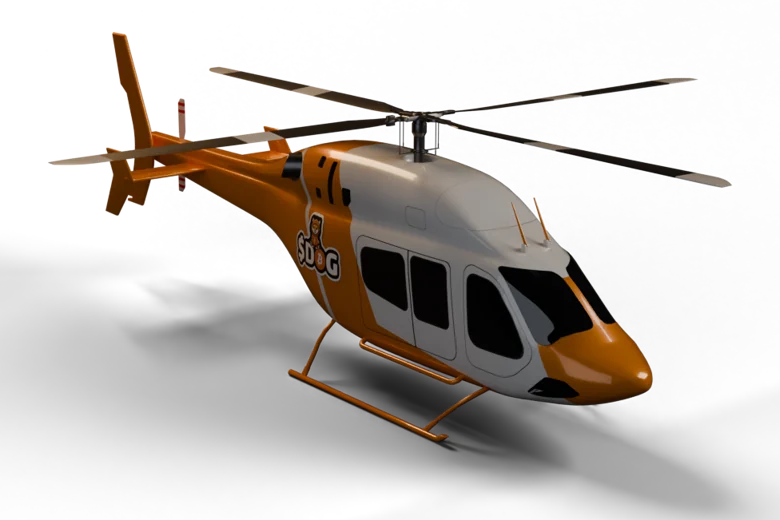
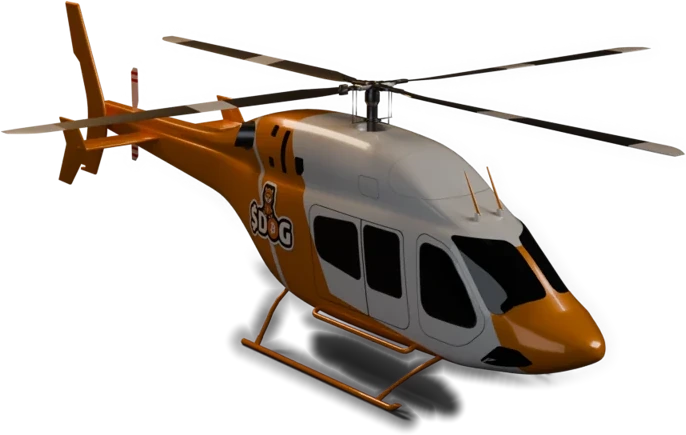
Licenças: sombra dos veículos sem retângulo e arquivos recortados no veículo
A sombra de chão das fotos da moto, das duas Cyber e do helicóptero tinha sido cortada pela borda do
arquivo (alfa 83 a 88 na borda), e no bloco do card aparecia um retângulo escuro atrás do veículo. A
sombra agora perde alfa com a distância até o veículo (campo de distância + smoothstep, zera a 18 px do
contorno, sem degrau) e cada arquivo foi recortado no que sobrou. O veículo (alfa >= 200) não mudou nem
um pixel; o objeto passou de ~88% para ~98% da largura do arquivo, então ele cresce no mesmo bloco.

w/h no dogcity-data.ts: moto 386 x 429, Cyber 760 x 454 e 749 x 461, helicóptero 686 x 435.
Barcos e rifles não tinham o problema (alfa 0 na borda) e ficaram como estavam.

diff --git a/app/dogcity/dogcity-data.ts b/app/dogcity/dogcity-data.ts
@@ -271,6 +271,11 @@ export const LICENCE_BTC_NOTE = "Paid in BTC: building licence and item pack onl
 // Os veículos foram fotografados no estúdio do Blender (dogcity-mundo, plano/the_build/filme/estudio_veiculos.py, modo cartão).
 // O helicóptero é o "Bell 429 Helicopter" de agreene (Sketchfab, CC BY 4.0): o crédito (`credit`) sai no próprio cartão,
 // é condição da licença.
+// 12/11 (rodada 2 dos cards): a sombra de chão das fotos da moto, das duas Cyber e do helicóptero tinha sido cortada pela borda
+// do arquivo (alfa 83 a 88 na borda, um retângulo escuro atrás do veículo no bloco). A sombra agora some antes da borda (perde
+// alfa com a distância até o veículo e zera a 18 px do contorno, sem degrau) e cada arquivo foi recortado no veículo; o
+// veículo em si não mudou nem um pixel. Por isso os `w`/`h` abaixo são os do recorte (moto 386 x 429, Cyber 760 x 454 e
+// 749 x 461, helicóptero 686 x 435).
 // 10/11 (fundador): cada licença dá um RIFLE DE CAÇA, preso à licença do lote e que vai com a escritura (sobe junto, nunca vira item à venda nem
 // Ordinal). Personal = Field Rifle (madeira, sem luneta), Commercial = Field Rifle Pro (Tikka T3, com luneta), Patron = Field
 // Rifle Elite (Rigby, gravação dourada com o @ do dono). A linha do cartão diz SÓ o rifle: sem data, sem "coming soon" e sem
@@ -292,7 +297,7 @@ export const LICENCE_BTC_NOTE = "Paid in BTC: building licence and item pack onl
 
 // a moto é o veículo de TODOS os degraus: uma definição só, as três listas apontam para ela
 const VEHICLE_MOTO = {
-  src: "/landing/licences/moto.webp", w: 514, h: 520, label: "$DOG MOTO",
+  src: "/landing/licences/moto.webp", w: 386, h: 429, label: "$DOG MOTO",
   alt: "The $DOG racing motorbike in black and orange MotoGP livery, with DOG·CITY, $DOG and partner logos on the fairing",
 }
 
@@ -351,7 +356,7 @@ export const TIERS = [
     },
     vehicles: [
       VEHICLE_MOTO,
-      { src: "/landing/licences/cyber.webp", w: 844, h: 520, label: "ORANGE CYBER", alt: "The orange Cyber $DOG pickup with the $DOG sticker on the hood" },
+      { src: "/landing/licences/cyber.webp", w: 760, h: 454, label: "ORANGE CYBER", alt: "The orange Cyber $DOG pickup with the $DOG sticker on the hood" },
     ],
     rifle: {
       src: "/landing/licences/rifle-commercial.webp", w: 1000, h: 299, label: "FIELD RIFLE PRO",
@@ -386,9 +391,9 @@ export const TIERS = [
     },
     vehicles: [
       VEHICLE_MOTO,
-      { src: "/landing/licences/cyber-black.webp", w: 844, h: 520, label: "BLACK CYBER", alt: "The black Cyber $DOG pickup with the $DOG sticker on the hood" },
+      { src: "/landing/licences/cyber-black.webp", w: 749, h: 461, label: "BLACK CYBER", alt: "The black Cyber $DOG pickup with the $DOG sticker on the hood" },
       {
-        src: "/landing/licences/helicopter.webp", w: 780, h: 520, label: "DOG HELICOPTER",
+        src: "/landing/licences/helicopter.webp", w: 686, h: 435, label: "DOG HELICOPTER",
         alt: "The DOG helicopter in Bitcoin orange and white with the $DOG sticker on the side",
         credit: { text: "3D model: Bell 429 Helicopter by agreene, CC BY 4.0", href: "https://sketchfab.com/3d-models/bell-429-helicopter-8dda855f3ab343b7b69ca7adcbf24f03" },
       },
